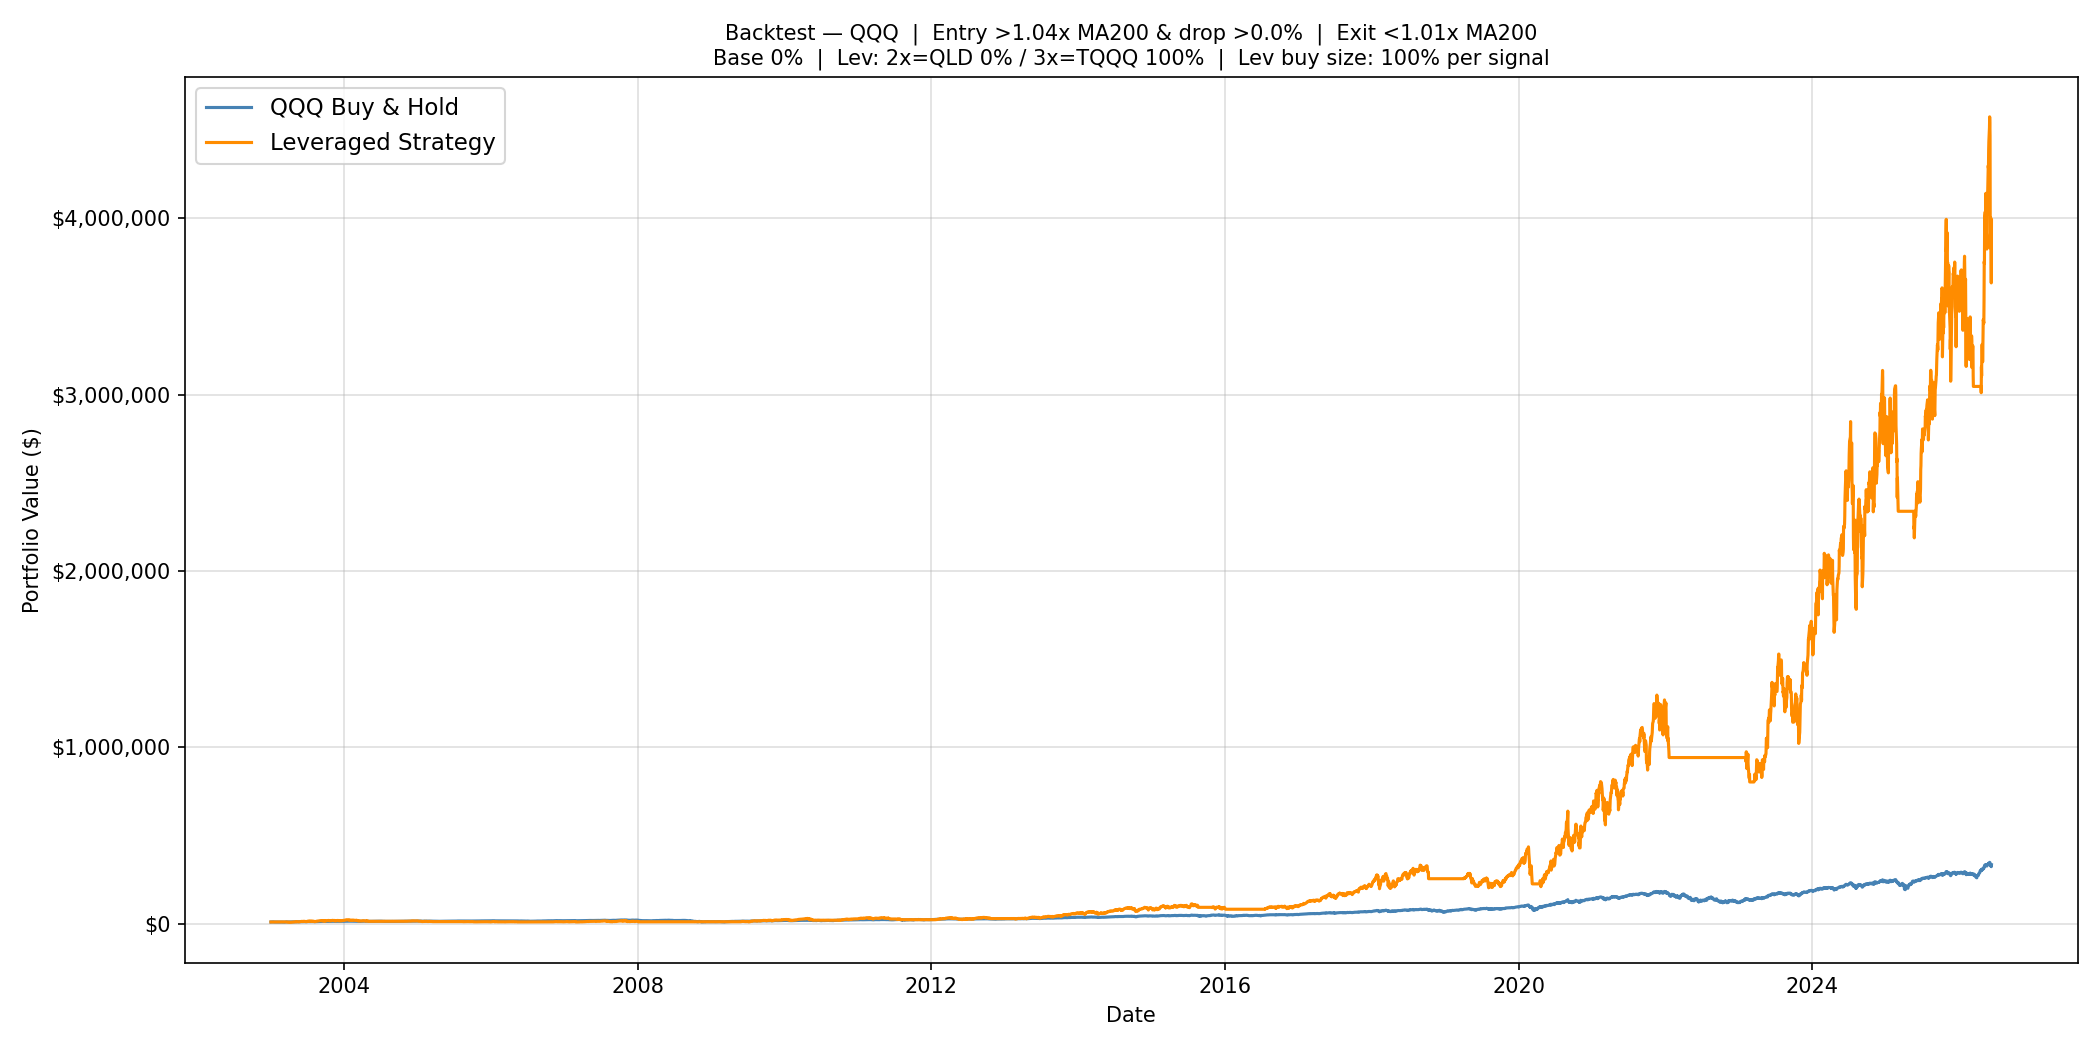
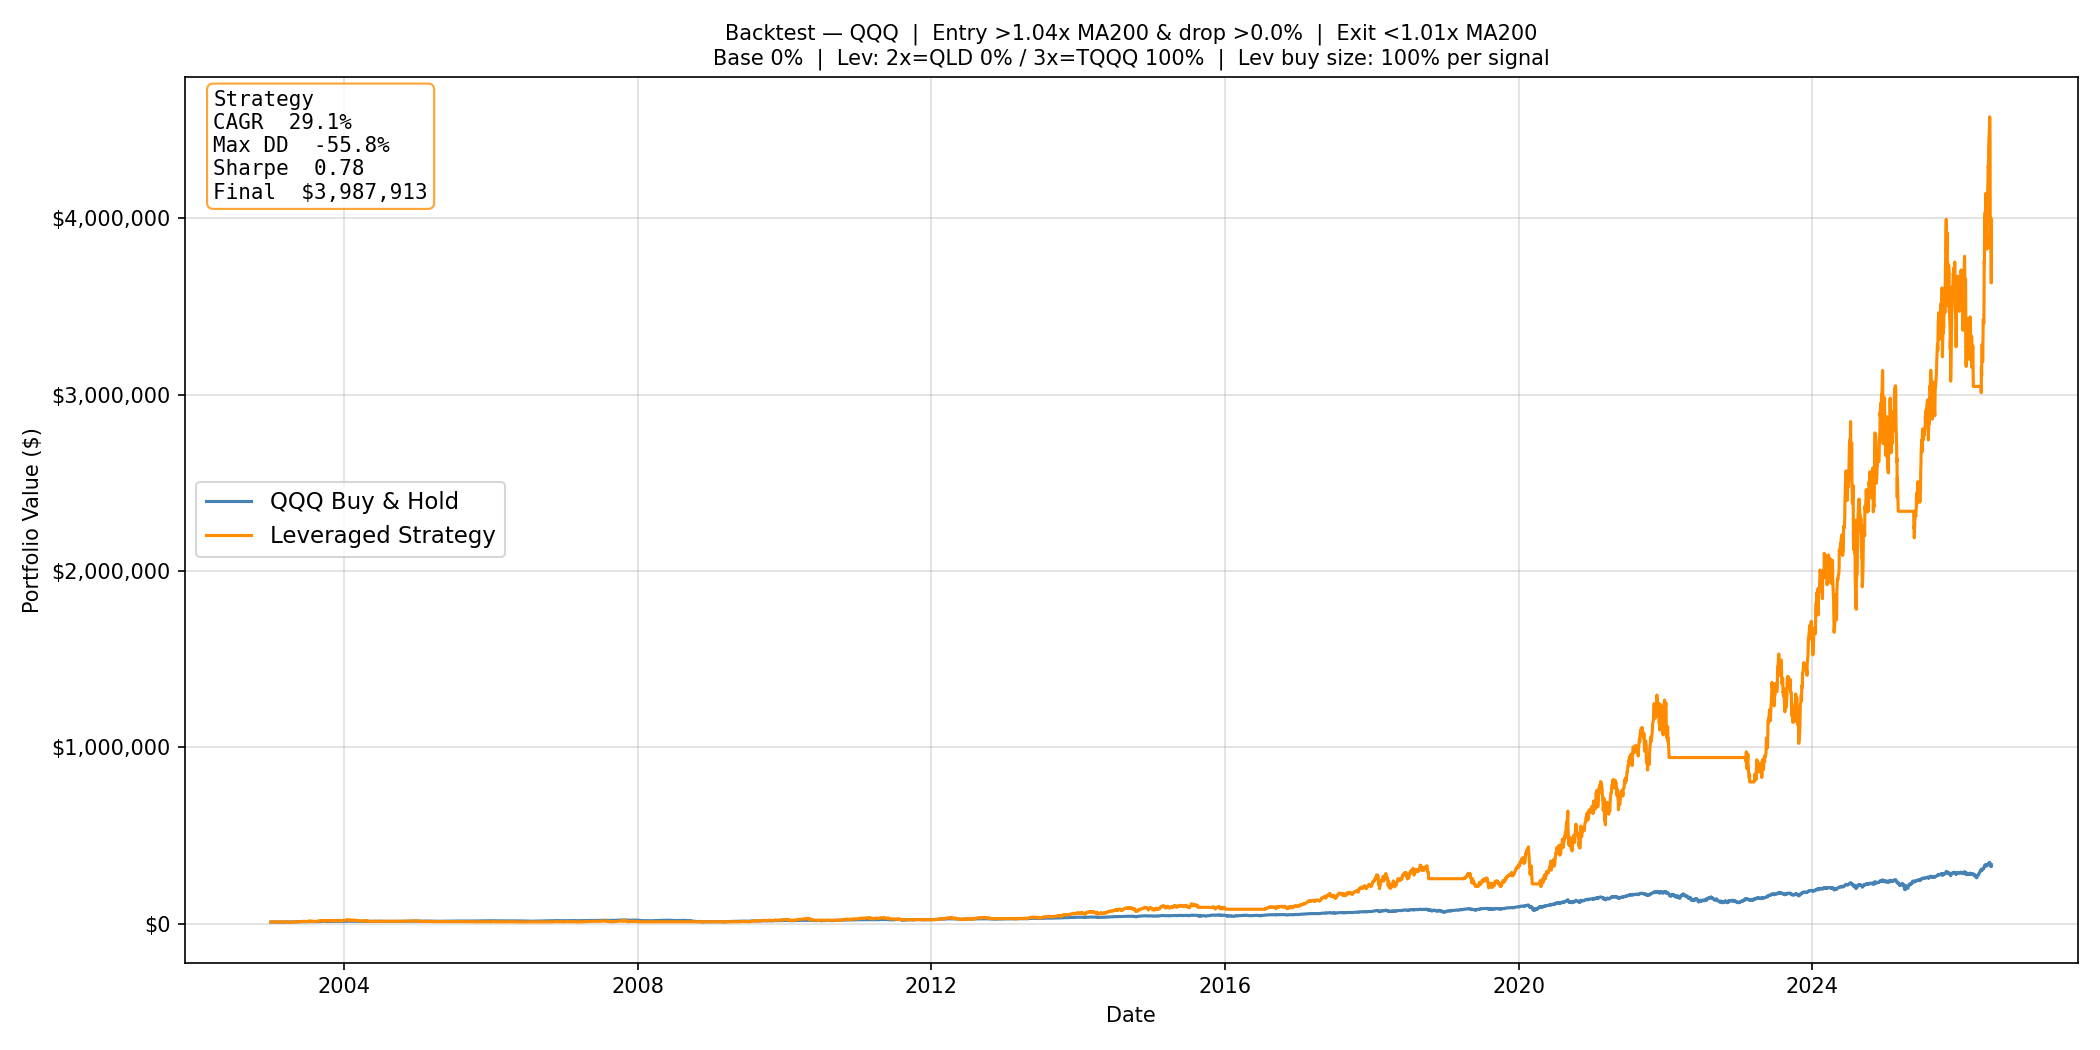
README/backtester: fix Sharpe to authoritative full-history values + show it on charts
The §4 Sharpe column carried the real-period grid Sharpe (~0.9), while
every other column in that table is full-history backtester output.
Replace it with backtester.py's authoritative Sharpe over 2003→2026
(QQQ 0.78/0.78/0.80, SPY 0.78/0.76/0.77) so the whole row sits on one
basis, and drop the §3 claim that every grid combo carries a Sharpe
(the engines no longer compute one).

Add a Strategy stats box (CAGR / Max DD / Sharpe / Final) to the
backtester equity chart, and regenerate the two headline figures
(QQQ Aggressive, SPY Balanced) pinned to the 2026-06-11 snapshot.
Align the SPY Balanced full-history figures (CAGR 24.4%, Final $1.67M)
to that same snapshot.

Changed region(s): [[0.0929, 0.061, 0.2476, 0.2133], [0.0929, 0.4571, 0.2476, 0.5181]]

diff --git a/backtester.py b/backtester.py
@@ -907,6 +907,23 @@ def plot_results(hist, base_tk, args):
         mticker.FuncFormatter(lambda x, _: f"${x:,.0f}"))
     ax.legend(fontsize=11)
     ax.grid(True, alpha=0.4)
+
+    # Strategy stats box (same basis as the text summary: full-period CAGR,
+    # peak-to-trough maxDD, and ^IRX-risk-free annualised Sharpe).
+    days      = (hist.index[-1] - hist.index[0]).days
+    scagr     = cagr(hist["Strategy"].iloc[-1], args.capital, days) * 100
+    strat_max = ((hist["Strategy"] / hist["Strategy"].cummax() - 1).min()) * 100
+    daily_ret = hist["Strategy"].pct_change().dropna()
+    excess    = daily_ret - _tbill_daily(daily_ret.index)
+    sharpe    = (excess.mean() / excess.std() * np.sqrt(252)
+                 if excess.std() > 0 else 0.0)
+    ax.text(0.015, 0.985,
+            f"Strategy\nCAGR  {scagr:.1f}%\nMax DD  {strat_max:.1f}%\n"
+            f"Sharpe  {sharpe:.2f}\nFinal  ${hist['Strategy'].iloc[-1]:,.0f}",
+            transform=ax.transAxes, fontsize=10, va="top", ha="left",
+            family="monospace",
+            bbox=dict(boxstyle="round", facecolor="white", alpha=0.8,
+                      edgecolor="darkorange"))
     plt.tight_layout()
     if args.save_plot:
         path = args.save_plot

diff --git a/README.md b/README.md
@@ -179,7 +179,7 @@ Constraints: `exit < entry`, and **`buy_pct ≤ 1 − alloc_base`** — since th
 
 **Every window's grid is saved.** Walk-forward Phase 1 writes each training window's complete grid (all 61,200 combos, every metric) to `results/walkforward/grids/{preset}/*.csv.gz` (~1 MB/window). The expensive search runs **once per window**; any selection rule can then be browsed and re-derived offline in seconds with `walkforward.py --from-grids`.
 
-**Sharpe** uses the historical 13-week T-bill (^IRX) as a daily-varying risk-free rate, so it properly penalizes failing to beat cash in high-rate years.
+**Sharpe** uses the historical 13-week T-bill (^IRX) as a daily-varying risk-free rate, so it properly penalizes failing to beat cash in high-rate years. It is reported by the authoritative `backtester.py` over the full 2003→2026 history for each shipped variant (the §4 table), so the synthetic pre-inception leg is included — keeping it on the same basis as the CAGR, max-DD, and Final-value columns beside it.
 
 ---
 
@@ -197,14 +197,14 @@ SPY's in-sample winner is **MA50**, and it stays the best choice out-of-sample *
 
 **Authoritative backtests of the chosen full-history configs (2003 → 2026-06-11, $10k):**
 
-| Config | CAGR | B&H | Worst year | Max DD | Final |
-|---|---|---|---|---|---|
-| QQQ Aggressive — Max-CAGR (3×, buy 100%) | **29.1%** | 16.2% | −35.0% | −55.9% | $3,987,903 |
-| QQQ Balanced — DD-Capped (3×, buy 90% + 10% base) | 28.2% | 16.2% | −31.9% | −51.8% | $3,356,876 |
-| QQQ Conservative — Calmar (2×, buy 80% + 20% base) | 20.9% | 16.2% | **−19.1%** | **−33.4%** | $856,189 |
-| SPY Aggressive — Max-CAGR (3×, buy 100%, MA50) | 25.2% | 11.3% | −31.5% | −52.1% | $1,947,757 |
-| SPY Balanced — Buy-Capped (3×, buy 20%, MA50) | 24.5% | 11.3% | −36.5% | −51.5% | $1,700,103 |
-| SPY Conservative — Calmar (2×, buy 90% + 10% base, MA50) | 17.4% | 11.3% | **−21.4%** | −36.8% | $432,313 |
+| Config | CAGR | B&H | Worst year | Max DD | Sharpe | Final |
+|---|---|---|---|---|---|---|
+| QQQ Aggressive — Max-CAGR (3×, buy 100%) | **29.1%** | 16.2% | −35.0% | −55.9% | 0.78 | $3,987,913 |
+| QQQ Balanced — DD-Capped (3×, buy 90% + 10% base) | 28.2% | 16.2% | −31.9% | −51.8% | 0.78 | $3,356,876 |
+| QQQ Conservative — Calmar (2×, buy 80% + 20% base) | 20.9% | 16.2% | **−19.1%** | **−33.4%** | **0.80** | $856,189 |
+| SPY Aggressive — Max-CAGR (3×, buy 100%, MA50) | 25.2% | 11.3% | −31.5% | −52.1% | 0.78 | $1,947,757 |
+| SPY Balanced — Buy-Capped (3×, buy 20%, MA50) | 24.4% | 11.3% | −36.5% | −51.5% | 0.76 | $1,674,245 |
+| SPY Conservative — Calmar (2×, buy 90% + 10% base, MA50) | 17.4% | 11.3% | **−21.4%** | −36.8% | 0.77 | $432,313 |
 
 With a T-bill cash sleeve, QQQ Aggressive rises to 29.7%; in an Ontario taxable account at a $100k salary it nets ~25.1% after-tax (TFSA/RRSP: untaxed).
 
@@ -358,9 +358,9 @@ The 1× columns above ask *"should I index instead?"* This table asks the sharpe
 | **GFC** 2007–2009 | +64.7% · −38.8% | −80.2% · −96.9% | +4.7% · −51.5% | −90.7% · −97.5% |
 | **COVID** 2020 | +103.9% · −51.8% | +100.1% · −69.9% | +22.6% · −41.9% | +7.2% · −76.8% |
 | **2022 rate-hike** Nov'21–mid'23 | +8.9% · −38.0% | −46.9% · −81.7% | −16.3% · −48.5% | −31.3% · −63.9% |
-| **Full history 2003–2026** | **29.1% CAGR · −55.9% maxDD** | 24.6% CAGR · −96.9% maxDD | **24.5% CAGR · −51.5% maxDD** | 14.8% CAGR · −97.5% maxDD |
+| **Full history 2003–2026** | **29.1% CAGR · −55.9% maxDD** | 24.6% CAGR · −96.9% maxDD | **24.4% CAGR · −51.5% maxDD** | 14.8% CAGR · −97.5% maxDD |
 
-This is the strategy's real reason to exist. Holding the leveraged ETF straight through is a **wipeout in every decisive bear** — TQQQ −100% in the dot-com bust, −80% in the GFC (a −97% drawdown), −47% in 2022 — because daily-reset volatility decay plus an un-dodged crash compound against you. And it isn't just a risk story: over the full 23 years the **timed strategy earns *more* than buy-and-hold of the same leveraged ETF** (QQQ 29.1% vs 24.6%, SPY 24.5% vs 14.8% CAGR) at **roughly half the max drawdown** (−56% vs −97%). The MA exit adds return *and* cuts risk — the rare free lunch, and the entire point of not just holding TQQQ.
+This is the strategy's real reason to exist. Holding the leveraged ETF straight through is a **wipeout in every decisive bear** — TQQQ −100% in the dot-com bust, −80% in the GFC (a −97% drawdown), −47% in 2022 — because daily-reset volatility decay plus an un-dodged crash compound against you. And it isn't just a risk story: over the full 23 years the **timed strategy earns *more* than buy-and-hold of the same leveraged ETF** (QQQ 29.1% vs 24.6%, SPY 24.4% vs 14.8% CAGR) at **roughly half the max drawdown** (−56% vs −97%). The MA exit adds return *and* cuts risk — the rare free lunch, and the entire point of not just holding TQQQ.
 
 ### Dot-com crash, 2000–2003 — the one case the strategy can't beat
 
